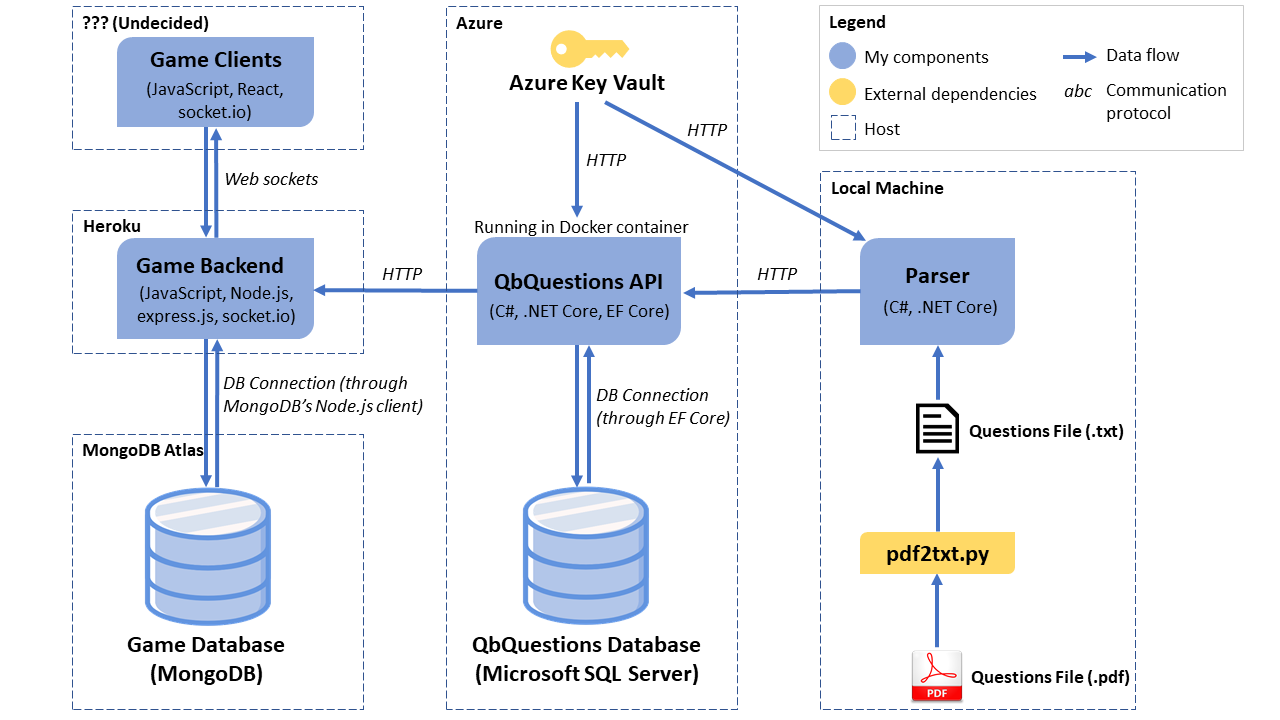
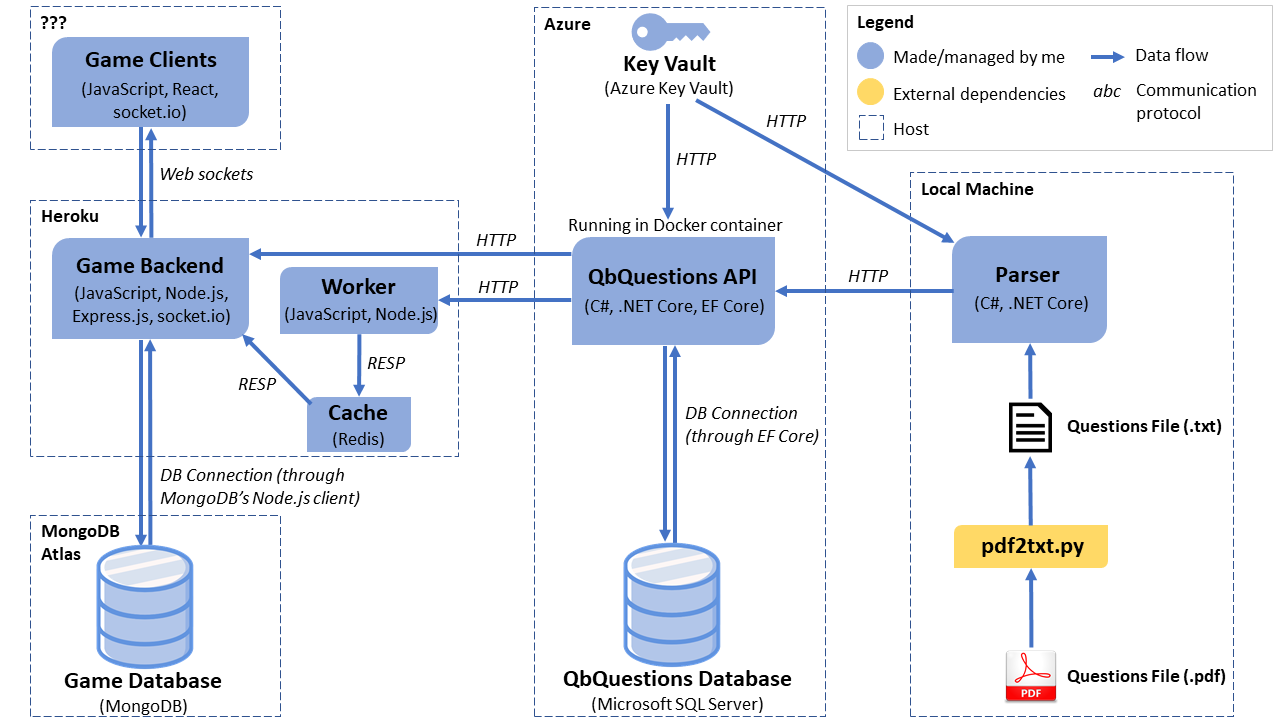
Update README.md

Changed region(s): [[0.0312, 0.0, 0.9688, 1.0], [0.625, 0.0, 1.0, 0.2139]]

diff --git a/GameBackendSocketIO/README.md b/GameBackendSocketIO/README.md
@@ -1,8 +1,12 @@
 # Game Backend
 
-A Node.js application built with socket.io, Express.js and MongoDB.
+A Node.js application built with socket.io, Express.js, MongoDB, and Redis.
 
-## Events
+`server.js` facilitates the gameplay and real-time communication between players while `worker.js` runs as a background process (on a separate Heroku dyno) and populates a Redis cache of questions to speed up question retrieval.
+
+## Server
+
+The server handles the following events:
 
 ### `join game`
 
@@ -15,7 +19,7 @@ Errors: `fatal error`, `duplicate userId`
 ### `get question`
 
 Parameters: `level` (string)<br>
-After receiving this event, the backend will make a GET request to the `/random` endpoint of [QbQuestionsAPI](https://github.com/sherryhli/Extriviaganza/tree/master/QbQuestionsAPI), with the optional query parameter `level`, which can have values `MiddleSchool`, `HighSchool`, `Collegiate` or `Trash` (**not case-sensitive**). If successful, the server will emit `receive question` and all players in the game associated the socket that invoked this event will receive the question.
+After receiving this event, the server will attempt to retrieve a question from the cache. The set name is either supplied in the `level` parameter (`MiddleSchool`, `HighSchool`, `Collegiate` or `Trash`), or randomly chosen if `level` is null. (Note: level names are **not case-sensitive**). If the server fails to retrieve a question from the cache, then a GET request to the `/random` endpoint of [QbQuestionsAPI](https://github.com/sherryhli/Extriviaganza/tree/master/QbQuestionsAPI) is made with the appropriate query parameter. If there is a successful retrieval from either the cache or the API, the server will emit `receive question` and all players in the game associated the socket that invoked this event will receive the question.
 
 Errors: `retryable error`, `fatal error`
 ***
@@ -62,6 +66,13 @@ Parameters: none<br>
 This event is emitted by the server if a player tries to use a `userId` that's already being used by another player in their game.
 
 
+## Worker
+
+The worker continuously makes GET requests to the `/random` endpoint of [QbQuestionsAPI](https://github.com/sherryhli/Extriviaganza/tree/master/QbQuestionsAPI) in order to populate the Redis cache upfront with questions of all levels. The cache is implemented as a collection of sets, with questions of each level being in a separate set, e.g. `questions:MiddleSchool`, `questions:HighSchool`, etc. Sets were chosen over lists as they decrease the likelihood of requests made close in time returning the same question, and also limits memory usage as only unique questions are stored in each set.
+
+The worker should be scaled down as we approach the 25 MB memory limit of free Heroku Redis (not likely anytime soon since there aren't enough questions in [QbQuestionsAPI](https://github.com/sherryhli/Extriviaganza/tree/master/QbQuestionsAPI)'s database). Although there is an LRU eviction policy, it will result in loss of an entire set of questions, which is not ideal.
+
+
 ## Deployment
 
 The backend is deployed to Heroku at https://extriviaganza.herokuapp.com. There are currently two test endpoints: `/test1` and `/test2` that serve as very simple clients.
@@ -93,9 +104,14 @@ To check status of dynos:
 heroku ps
 ```
 
-To run 1 dyno:
+To run 1 web dyno:
 ```
 heroku ps:scale web=1
+```
+
+Scale down worker dyno:
+```
+heroku ps:scale worker=0
 ```
 
 To restart dyno:

diff --git a/README.md b/README.md
@@ -10,7 +10,7 @@ Extriviaganza is a project inspired by Protobowl, an online quizbowl game that I
 
 There are 5 different components to this project, with 4 already being worked on. More detailed documentation can be found in each component's README. The components are kept in a single repo for organization purposes but most are actually deployable units on their own.
 
-Architecture diagram, updated April 1, 2020:
+Architecture diagram, updated April 18, 2020:
 
 ![Architecture-Diagram](architecture_diagram.png)
 
@@ -40,7 +40,7 @@ This is a .NET Core REST API supporting CRUD operations that interacts with a SQ
 
 ### [Game Backend](https://github.com/sherryhli/Extriviaganza/tree/master/GameBackendSocketIO)
 
-The game backend is an Express.js server that makes use of socket.io, which allows players to interact in real-time when playing the game. socket.io supports the concept of rooms, which is great because it makes it easy to enable isolation between games. MongoDB is used to store game states.
+The game backend is an Express.js server that makes use of socket.io, which allows players to interact in real-time when playing the game. socket.io supports the concept of rooms, which is great because it makes it easy to enable isolation between games. MongoDB is used to store game states and Redis is used to cache questions.
 
 ### Game Frontend
 
